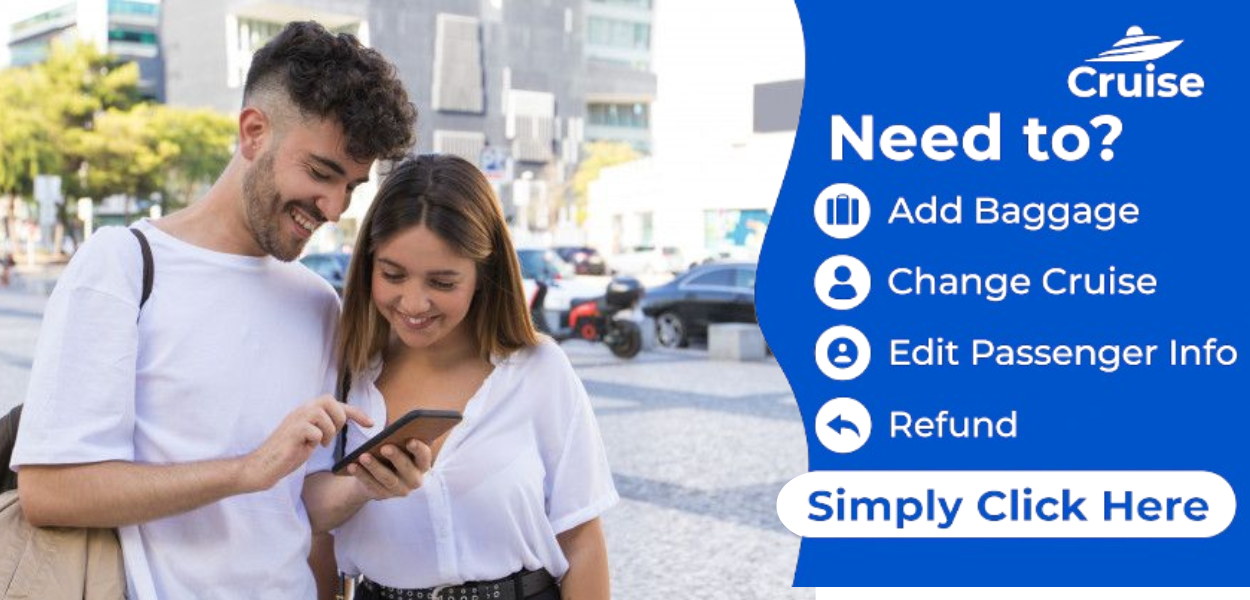
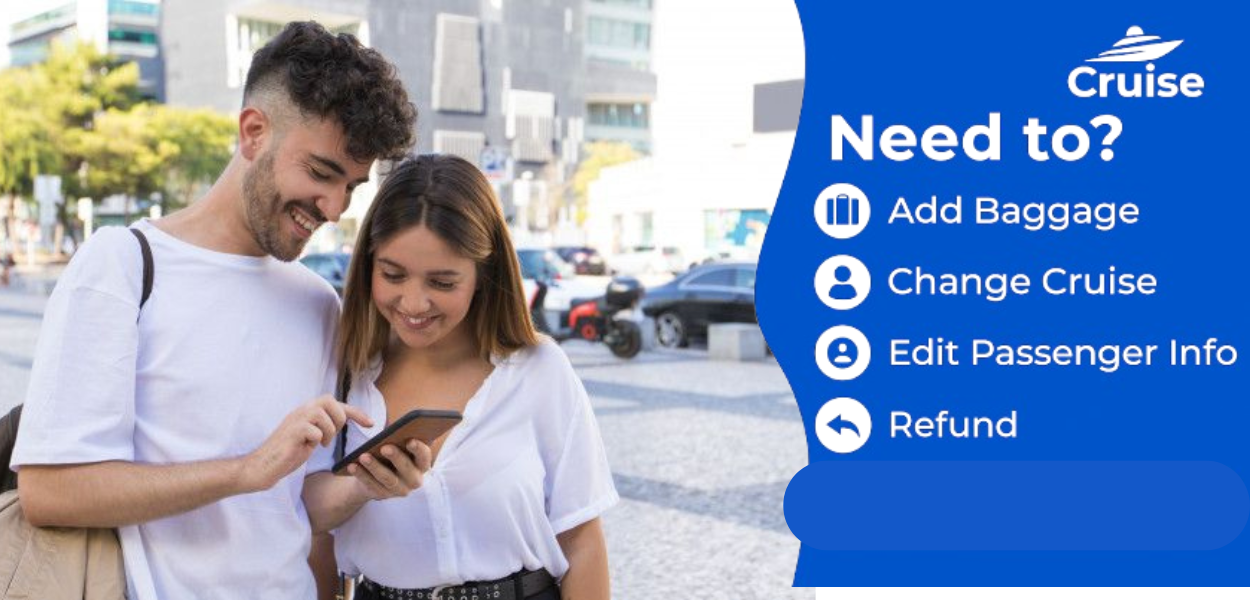
added chat bubble on the hero component

Changed region(s): [[0.624, 0.78, 0.9984, 0.9]]

diff --git a/frontend/src/components/Home-components/ChatBubble.tsx b/frontend/src/components/Home-components/ChatBubble.tsx
@@ -1,0 +1,49 @@
+
+import { Button } from "@/components/ui/button"
+import { Card } from "@/components/ui/card"
+
+interface ChatBubbleProps {
+    isChatOpen: boolean;
+    setIsChatOpen: (isOpen: boolean) => void;
+}
+export default function ChatBubble({ isChatOpen, setIsChatOpen }: ChatBubbleProps) {
+
+  return (
+    <>
+      {isChatOpen && (
+        <div className="bottom-24 right-6 lg:bottom-32 lg:right-32 w-80 max-w-[calc(100vw-3rem)] z-40">
+          <Card className="bg-white shadow-xl rounded-lg overflow-hidden">
+            <div className="bg-blue-500 text-white p-4">
+              <div className="flex items-center justify-between">
+                <h3 className="font-semibold">Live Chat Support</h3>
+                <Button
+                  onClick={() => setIsChatOpen(false)}
+                  variant="ghost"
+                  size="sm"
+                  className="text-white hover:bg-blue-600 h-6 w-6 p-0"
+                >
+                  ×
+                </Button>
+              </div>
+            </div>
+            <div className="p-4">
+              <div className="bg-gray-100 rounded-lg p-3 mb-4">
+                <p className="text-sm text-gray-700">Hi! How can we help you with your cruise booking today?</p>
+              </div>
+              <div className="flex gap-2">
+                <input
+                  type="text"
+                  placeholder="Type your message..."
+                  className="flex-1 px-3 py-2 border border-gray-300 rounded-lg text-sm focus:outline-none focus:ring-2 focus:ring-blue-500"
+                />
+                <Button size="sm" className="bg-blue-500 hover:bg-blue-600">
+                  Send
+                </Button>
+              </div>
+            </div>
+          </Card>
+        </div>
+      )}
+    </>
+  )
+}

diff --git a/frontend/src/pages/HomePage.tsx b/frontend/src/pages/HomePage.tsx
@@ -2,7 +2,7 @@ import { otherPortsData, propularDestination } from "@/constansts/utils";
 import HeroComponent from "../components/Home-components/HeroComponent";
 import CarouselComponent from "@/components/Home-components/CarouselComponent";
 import { OtherPorts } from "@/components/Home-components/OtherPorts";
-import { NewHeroComponent } from "@/components/Home-components/NewHeroComponent";
+import { MobileHero } from "@/components/Home-components/MobileHero";
 import FeaturesSection from "@/components/Home-components/FeaturedComponent";
 
 const HomePage = () => {
@@ -14,7 +14,7 @@ const HomePage = () => {
       </div>
       <div className="block md:hidden"><HeroComponent /></div>
       <div className="hidden md:block">
-      <NewHeroComponent />
+      <MobileHero />
 
       </div>
       <div className="px-5 md:max-w-6xl mx-auto flex flex-col gap-5 py-10">

diff --git a/frontend/src/components/Home-components/MobileHero.tsx b/frontend/src/components/Home-components/MobileHero.tsx
@@ -1,0 +1,24 @@
+import { useState } from "react"
+import ChatBubble from "./ChatBubble"
+
+export const MobileHero = ()=>{
+  const [isChatOpen, setIsChatOpen] = useState(true)
+
+  return(
+    <div className="h-full w-full relative">
+      <img 
+        src="/hero-bg-new.png" 
+        className="h-full w-full object-cover object-center"
+      />
+
+      <button onClick={()=>setIsChatOpen(!isChatOpen)} className="hidden md:block text-[#2455AD] bg-white md:p-[4px] lg:py-2 lg:px-4 w-fit rounded-full absolute 
+        right-1/3 md:bottom-2 lg:bottom-2 xl:bottom-8 md:text-sm lg:text-lg font-bold cursor-pointer">
+        Click here
+      </button>
+
+      <div className="hidden md:block absolute right-1 bottom-1 z-50">
+        <ChatBubble isChatOpen={isChatOpen} setIsChatOpen={setIsChatOpen}/>
+      </div>
+    </div>
+  )
+}

diff --git a/frontend/src/components/Header.tsx b/frontend/src/components/Header.tsx
@@ -16,7 +16,7 @@ const Header = () => {
       <div className="flex flex-col px-2 md:px-0">
         <div className="">
           <div className="flex items-center justify-between h-20 max-w-7xl mx-auto">
-            <div><img src="/logo.png" className="w-20 md:w-28"/></div>
+            <Link to={"/"}><div><img src="/logo.png" className="w-20 md:w-28"/></div></Link>
             <div className="flex items-center gap-2 md:gap-5">
             <Link to={"/admin/dashboard"}><h1>Admin</h1></Link>
             <img src="/spin-icon.png" className="h-8 w-8 md:h-12 md:w-12" onClick={()=>setIsModalOpen(true)}/>

diff --git a/frontend/src/components/Home-components/HeroComponent.tsx b/frontend/src/components/Home-components/HeroComponent.tsx
@@ -37,3 +37,4 @@ export default function HeroComponent() {
     </div>
   );
 }
+
